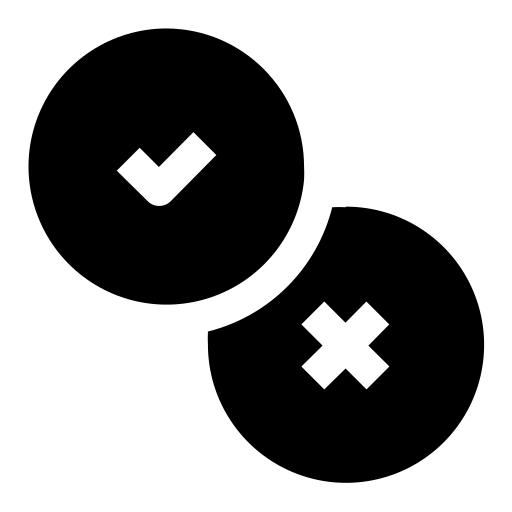
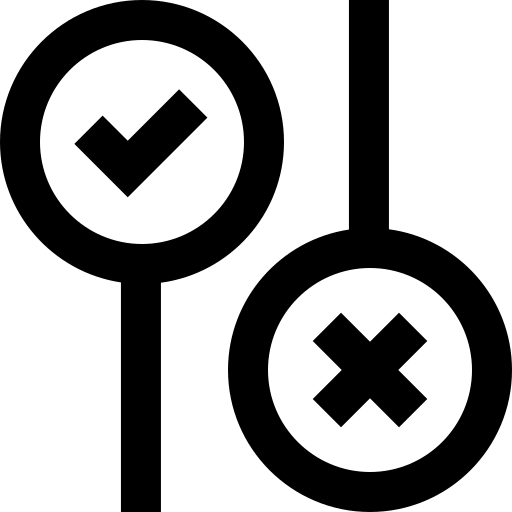
Ícones substituídos e fundo alterado.

diff --git a/frontend/src/pages/horariosTreinos/index.scss b/frontend/src/pages/horariosTreinos/index.scss
@@ -1,9 +1,17 @@
 .pagina-horarios-treinos{
-    background-color: #8299AA;
+    background-image: url('../../../public/assets/images/fundo.jpg');
     min-height: 100vh;
     display: flex;
     flex-direction: column;
     gap: 20px;
+
+    h1{
+        color: #ffffff
+    }
+
+    h2{
+        color: #ffffff
+    }
 
     .secaomae{
         display: flex;
@@ -14,13 +22,21 @@
         .secao1{
             display: flex;
             flex-direction: column;
+            justify-content: center;
             gap: 15px;
 
             .irAddTreino{
                 display: flex;
                 flex-direction: row;
                 align-items: center;
-                gap: 10px;
+                gap: 7px;
+
+                .add{
+                    display: flex;
+                    flex-direction: row;
+                    align-items: center;
+                    width: 20px;
+                }
             }
         }
 
@@ -38,8 +54,6 @@
                     display: flex;
                     flex-direction: row;
                     align-items: center;
-                    
-                    gap: 10px;
                 }
 
                 .treinosatuais{
@@ -58,7 +72,6 @@
                     display: flex;
                     flex-direction: row;
                     align-items: center;
-                    gap: 10px;
                 }
 
                 .treinosproxs{
@@ -66,6 +79,10 @@
                     flex-direction: row;
                     gap: 49px;
                 }
+            }
+            
+            .seta{
+                width: 30px;
             }
         }
     }

diff --git a/frontend/src/pages/horariosTreinos/index.jsx b/frontend/src/pages/horariosTreinos/index.jsx
@@ -19,7 +19,7 @@ export default function HorarioTreinos (){
 
                     <div className="irAddTreino">
                         <h2>Adicionar Novo Treino</h2>
-                        <Link to={'/adicionarTreino'}><i id='adicionar' className="fa-solid fa-circle-plus"></i></Link>
+                        <Link to={'/adicionarTreino'}><img className='add' src='/assets/images/adicionar.png'/></Link>
                     </div>
                 </div>
 
@@ -28,7 +28,7 @@ export default function HorarioTreinos (){
                     <div className="atualSemana">
                         <div className="titulo">
                             <h3>Esta Semana</h3>
-                            <i class="fa-solid fa-arrow-right"></i>
+                            <img className='seta' src='/assets/images/seta.png'/>
                         </div>
 
                         <div className="treinosatuais">
@@ -41,7 +41,7 @@ export default function HorarioTreinos (){
                     <div className="proxSemanas">
                         <div className="titulo">
                             <h3>Nas Próximas Semanas</h3>
-                            <i class="fa-solid fa-arrow-right"></i>
+                            <img className='seta' src='/assets/images/seta.png'/>
                         </div>
 
                         <div className="treinosproxs">

diff --git a/frontend/src/pages/treinosFinalPend/index.jsx b/frontend/src/pages/treinosFinalPend/index.jsx
@@ -5,10 +5,25 @@ import Menu from '../../components/abasMenu'
 export default function TreinosFinalPend(){
     return(
         <div className="pagina-treinos-finpen">
+
             <Menu />
+            
             <div className="secaomae">
-                <h1>Treinos Concluídos</h1>
-                <h1>Treinos Pendentes</h1>
+
+                <div className="secaoConcluidos">
+                    <div className="titulo">
+                        <h1>Treinos Concluídos</h1>
+                        <img className='final' src='/assets/images/final.png'/>
+                    </div>
+                </div>
+            
+                <div className="secaoPendentes">
+                    <div className="titulo">
+                        <h1>Treinos Pendentes</h1>
+                        <img className='pend' src='/assets/images/pend.png'/>
+                    </div>
+                </div>
+                
             </div>
         </div>
     )

diff --git a/frontend/src/components/abasMenu/index.scss b/frontend/src/components/abasMenu/index.scss
@@ -41,19 +41,21 @@
             flex-direction: row;
             justify-content: center;
             align-items: center;
+            gap: 7px;
 
             .finpends{
-                width: 30px;
+                width: 25px;
             }
         }
 
-        .sair{
+        .logout{
             display: flex;
             flex-direction: row;
             justify-content: center;
             align-items: center;
+            gap: 7px;
 
-            .user{
+            .sair{
                 width: 40px;
             }
         }

diff --git a/frontend/src/components/abasMenu/index.jsx b/frontend/src/components/abasMenu/index.jsx
@@ -19,8 +19,8 @@ export default function Menu (){
                     <Link to = {'/treinosFinalPend'}><p>Treinos Concluídos/Pendentes</p></Link>
                 </div>
                 
-                <div className="sair">
-                    <img className='user' src='/assets/images/user.png'/>
+                <div className="logout">
+                    <img className='sair' src='/assets/images/sair.png'/>
                     <Link to = {'/loginUsuario'}><p>Sair</p></Link>
                 </div>
             </div>

diff --git a/frontend/src/pages/treinosFinalPend/index.scss b/frontend/src/pages/treinosFinalPend/index.scss
@@ -1,4 +1,26 @@
 .pagina-treinos-finpen{
     background-color: #8299AA;
     min-height: 100vh;
+
+    .secaomae{
+
+        .secaoConcluidos{
+            .final{
+                width: 30px;
+            }
+        }
+
+        .secaoPendentes{
+            .pend{
+                width: 27px;
+            }
+        }
+
+        .titulo{
+            display: flex;
+            flex-direction: row;
+            align-items: center;
+            gap: 7px;
+        }
+    }
 }

diff --git a/frontend/src/pages/infosUsuario/index.jsx b/frontend/src/pages/infosUsuario/index.jsx
@@ -17,7 +17,7 @@ export default function InfosUser(){
             <div className="secaomae">
 
                 <div className="menu">
-                    <Link to={'/horariosTreinos'}><i id='voltar' class="fa-solid fa-circle-arrow-left"></i></Link>
+                    <Link to={'/horariosTreinos'}><img className='seta' src='/assets/images/'/></Link>
                     <h1>Informações do Usuário</h1>
                 </div>
 
